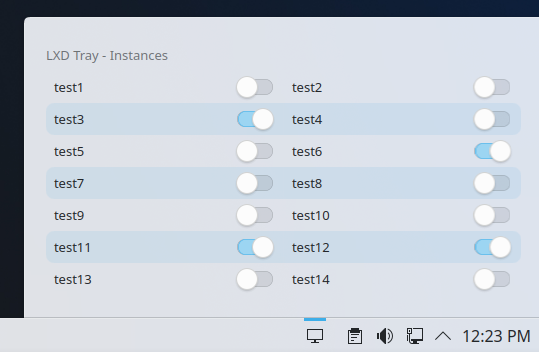
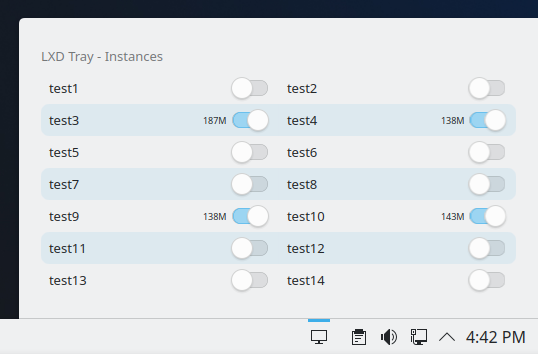
Display instance memory usage

diff --git a/package/contents/ui/LXDController.qml b/package/contents/ui/LXDController.qml
@@ -32,7 +32,7 @@ Plasma5Support.DataSource {
                     updating: updating,
                     running: running,
                     type: fields[2],
-                    memory: fields[3],
+                    memory: running && fields[3] ? fields[3].replace(/(\d+)\.?\d*([KMG])ib$/i, '$1$2') : "",
                 });
             }
             listing = false;
@@ -43,6 +43,9 @@ Plasma5Support.DataSource {
                 if (instances.get(i).name === name) {
                     instances.setProperty(i, "running", true);
                     instances.setProperty(i, "updating", false);
+                    // call list to query memory usage
+                    lxd.list();
+                    break;
                 }
             }
         } else if (source.startsWith("lxc stop ")) {
@@ -51,6 +54,7 @@ Plasma5Support.DataSource {
                 if (instances.get(i).name === name) {
                     instances.setProperty(i, "running", false);
                     instances.setProperty(i, "updating", false);
+                    break;
                 }
             }
         }
@@ -69,6 +73,7 @@ Plasma5Support.DataSource {
                 instances.setProperty(i, "updating", true);
                 // optimistic
                 instances.setProperty(i, "running", true);
+                instances.setProperty(i, "memory", "");
                 root.connectSource("lxc start " + name);
                 break;
             }
@@ -82,6 +87,7 @@ Plasma5Support.DataSource {
                 instances.setProperty(i, "updating", true);
                 // optimistic
                 instances.setProperty(i, "running", false);
+                instances.setProperty(i, "memory", "");
                 root.connectSource("lxc stop " + name);
                 break;
             }

diff --git a/package/contents/ui/FullRepresentation.qml b/package/contents/ui/FullRepresentation.qml
@@ -10,6 +10,7 @@ Item {
     id: root
     required property ListModel model
     required property bool loading
+    required property bool showMemory
     signal toggleInstance(string name, bool checked)
 
     PlasmaComponents3.BusyIndicator {
@@ -59,15 +60,15 @@ Item {
                         Layout.fillWidth: true
                         text: model.name
                     }
+                    PlasmaComponents3.Label {
+                        visible: root.showMemory && model.running
+                        font.pixelSize: 9
+                        text: model.memory
+                    }
                     PlasmaComponents3.BusyIndicator {
                         Layout.preferredWidth: 16
                         Layout.preferredHeight: 16
                         visible: model.updating
-                    }
-                    Item {
-                        Layout.preferredWidth: 16
-                        Layout.preferredHeight: 16
-                        visible: !model.updating
                     }
                     PlasmaComponents3.Switch {
                         checked: model.running

diff --git a/package/contents/ui/configGeneral.qml b/package/contents/ui/configGeneral.qml
@@ -1,0 +1,19 @@
+import QtQuick 2.15
+import QtQuick.Controls 2.5 as QQC2
+
+import org.kde.kirigami 2.20 as Kirigami
+import org.kde.kcmutils as KCM
+
+KCM.SimpleKCM {
+    id: page
+    property alias cfg_showMemory: showMemory.checked
+    property bool cfg_showMemoryDefault: true
+
+    Kirigami.FormLayout {
+        QQC2.CheckBox {
+            id: showMemory
+            Kirigami.FormData.label: i18n("Instance List:")
+            text: i18n("Show memory usage")
+        }
+    }
+}

diff --git a/package/contents/ui/main.qml b/package/contents/ui/main.qml
@@ -15,6 +15,7 @@ PlasmoidItem {
         Layout.minimumHeight: Kirigami.Units.gridUnit * 8
         model: lxd.instances
         loading: !lxd.ready
+        showMemory: plasmoid.configuration.showMemory
         onToggleInstance: (name, checked) => checked ? lxd.start(name) : lxd.stop(name)
     }
 

diff --git a/package/contents/config/config.qml b/package/contents/config/config.qml
@@ -1,0 +1,11 @@
+import QtQuick 2.15
+
+import org.kde.plasma.configuration 2.0
+
+ConfigModel {
+    ConfigCategory {
+         name: i18n("General")
+         icon: "configure"
+         source: "configGeneral.qml"
+    }
+}
